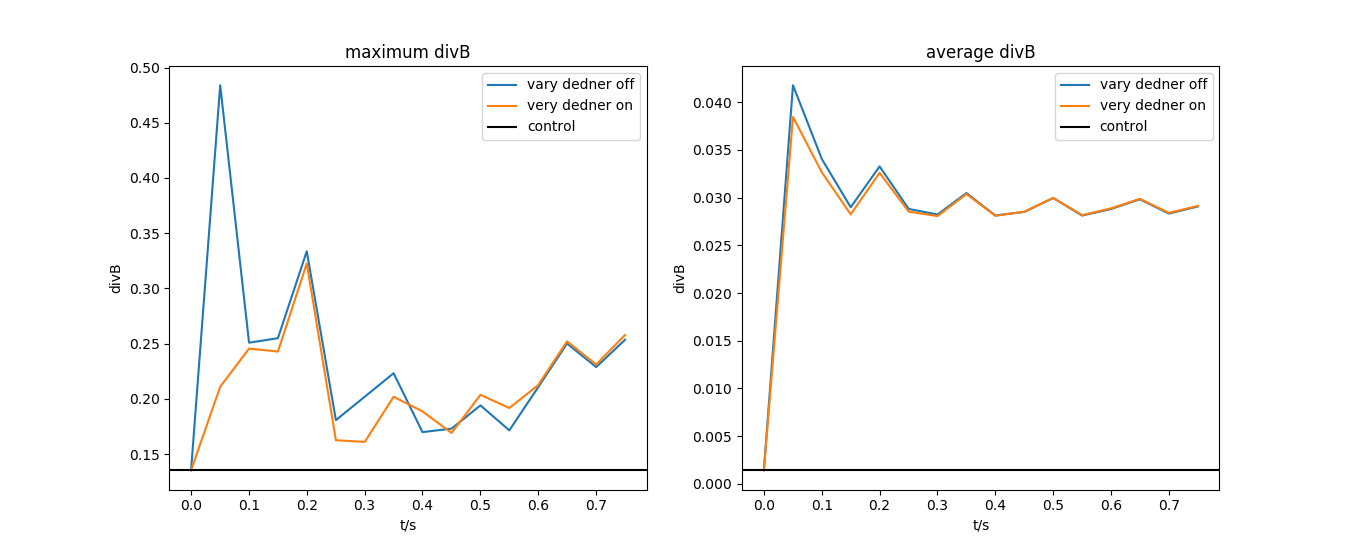
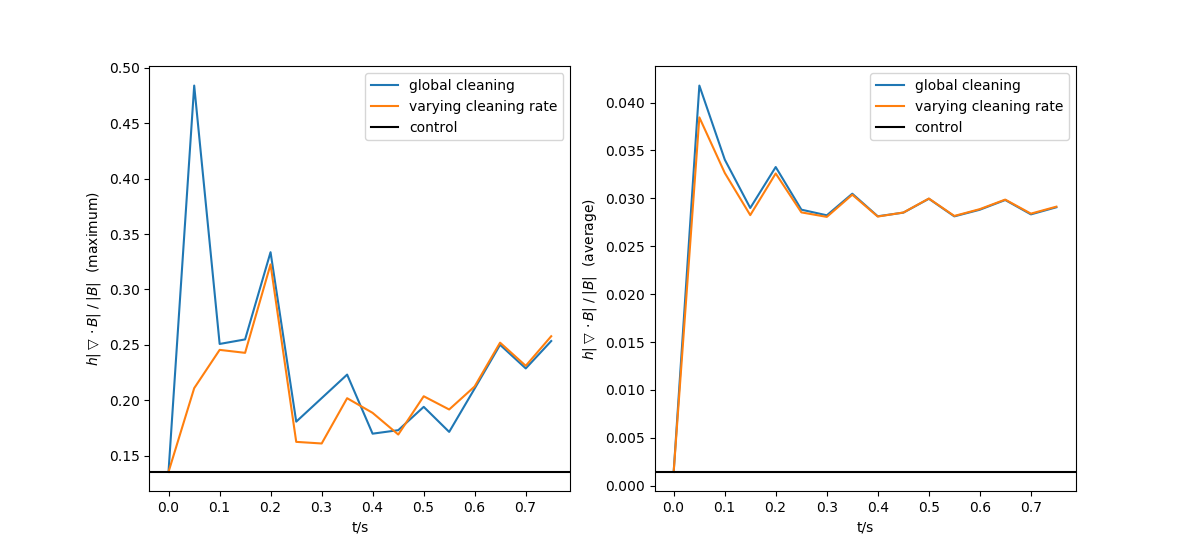
.

diff --git a/lewis_arepo_code/popIII_remesh.py b/lewis_arepo_code/popIII_remesh.py
@@ -21,6 +21,8 @@ import calculate_freefall
 import os, shutil
 import astropy.constants as ap 
 import turbulence
+import Bfield
+
 
 filename='/scratch/c.c1521474/popIII/Prole/high_res/ics/snapshot_066'                #read remesh data
 a=gadget_reader_lewis.reader(filename)        
@@ -54,6 +56,7 @@ scalefactor=1
 #box parameters - Bonnor Ebert sphere in diffuse ISM
 T=200
 r=1.87*ap.pc.cgs.value
+print('Radius: '+str(r))
 n0=3.7e-20/1.83
 enhance=1.83
 n_bg=n0*enhance/100
@@ -71,6 +74,7 @@ mid=Bsize_CU/2
 rs=np.sqrt((mid-a.x)**2+(mid-a.y)**2+(mid-a.z)**2)
 mask=np.where(rs<r/code_units.d_cu)
 M=sum(np.array(a.mass)[mask])*code_units.M_cu
+print('Mass: '+str(M))
 
 #convert back to cgs
 m=a.mass
@@ -80,36 +84,39 @@ y=np.asarray(a.y)*code_units.d_cu
 z=np.asarray(a.z)*code_units.d_cu
 
 
-Beta=np.array([0])
-Alpha=np.array([0,0.05])
-for i in range (len(Beta)):
-	for j in range (len(Alpha)):
+Beta=np.array([1e-5,1e-4])
+Gamma=np.array([1e-2,1e-8])
+for i in range (1):
+	for j in range (len(Beta)):
 		#add solid rotation
-		if Beta[i]==0:
+		if Beta[j]==0:
 			v=velocities.zero_vel(len(x))
 			vx,vy,vz=v[0],v[1],v[2]
 		else:
-			vx,vy,vz=velocities.rot_sphere(boxsize,(x,y,z),M,r,Beta[i])
+			vx,vy,vz=velocities.rot_sphere(boxsize,(x,y,z),M,r,Beta[j])
 			vx=vx/code_units.v_cu
 			vy=vy/code_units.v_cu
 			vz=vz/code_units.v_cu 
 			v=(vx,vy,vz)
 
 		#turbulence
-		if Alpha[j]>0:
-			tname='/home/c.c1521474/turbulent_box/256_cube/nat_seed_25/vel3D.bin'
-			v1,v2,v3=turbulence.turbulence(tname,x,y,z,boxsize)
-			v1,v2,v3=turbulence.rescale(v1,v2,v3,Alpha[j],M,r)
-			v1=v1/code_units.v_cu
-			v2=v2/code_units.v_cu
-			v3=v3/code_units.v_cu
-			v=(vx+v1,vy+v2,vx+v3)
+#		if Alpha[j]>0:
+#			tname='/home/c.c1521474/turbulent_box/256_cube/nat_seed_25/vel3D.bin'
+#			v1,v2,v3=turbulence.turbulence(tname,x,y,z,boxsize)
+#			v1,v2,v3=turbulence.rescale(v1,v2,v3,Alpha[j],M,r)
+#			v1=v1/code_units.v_cu
+#			v2=v2/code_units.v_cu
+#			v3=v3/code_units.v_cu
+#			v=(vx+v1,vy+v2,vx+v3)
 
 
 		#magnetic field
 		Bx=np.zeros_like(vx) #only in z direction 
 		By=np.zeros_like(vy)
-		Bz=np.zeros_like(vz)
+		strength=Bfield.B_strength(M,r,Gamma[j])
+		Bz=np.ones_like(vz)*strength/code_units.B_cu
+		
+
 		B=(Bx,By,Bz)	
 	
 
@@ -140,5 +147,5 @@ for i in range (len(Beta)):
 		sofar=arepo_input_writer.tag_block(sofar,m,'MASS','d',1)
 		sofar=arepo_input_writer.tag_block(sofar,u,'U   ','d',1)
 		sofar=arepo_input_writer.tag_block(sofar,B,'BFLD','d',3)
-		arepo_input_writer.writer(sofar,'/scratch/c.c1521474/popIII/Prole/high_res/arepo_input_B%.2f_A%.2f.dat'%(Beta[i],Alpha[j]))
+		arepo_input_writer.writer(sofar,'/scratch/c.c1521474/popIII/Prole/high_res/32/Y1e%.0f_B1e%.0f/arepo_input_Y1e%.0f_B1e%.0f.dat'%(np.log10(Gamma[j]),np.log10(Beta[j]),np.log10(Gamma[j]),np.log10(Beta[j])))
 

diff --git a/lewis_arepo_code/analyse.py b/lewis_arepo_code/analyse.py
@@ -723,8 +723,8 @@ def track_divB(dirname):
 	return maxs,avs,t
 
 def divB_plot(ax1,ax2,dirname,label):
-	ax1.set_title('maximum divB')
-	ax2.set_title('average divB')	
+	#ax1.set_title('maximum divB')
+	#ax2.set_title('average divB')	
 	maxs,avs,t=track_divB(dirname)
 	ax1.plot(t,maxs,label=label)
 	ax2.plot(t,avs,label=label)
@@ -745,8 +745,8 @@ def divB_figuremaker(dirnames,labels):
 	ax2.legend(loc='upper right')
 	ax1.set_xlabel('t/s')
 	ax2.set_xlabel('t/s')
-	ax1.set_ylabel('divB')
-	ax2.set_ylabel('divB')
+	ax1.set_ylabel(r'$h|\bigtriangledown \cdot B| \; / \; |B|$  (maximum)')
+	ax2.set_ylabel(r'$h|\bigtriangledown \cdot B| \; / \; |B|$  (average)')
 	
 
 '''//////////Finding best output snapshots times for higher resolution repeats/////////////'''

diff --git a/lewis_arepo_code/Bfield.py b/lewis_arepo_code/Bfield.py
@@ -1,0 +1,10 @@
+import numpy as np
+import astropy.constants as ap
+
+def B_strength(M,R,gamma0):
+	G=ap.G.cgs.value
+	U=3/5*G*M**2/R
+	B_en=1/(8*np.pi)* 4/3 * np.pi * R**3 #magnetic energy/B^2
+	B=np.sqrt(gamma0*U/B_en)
+	return B
+
